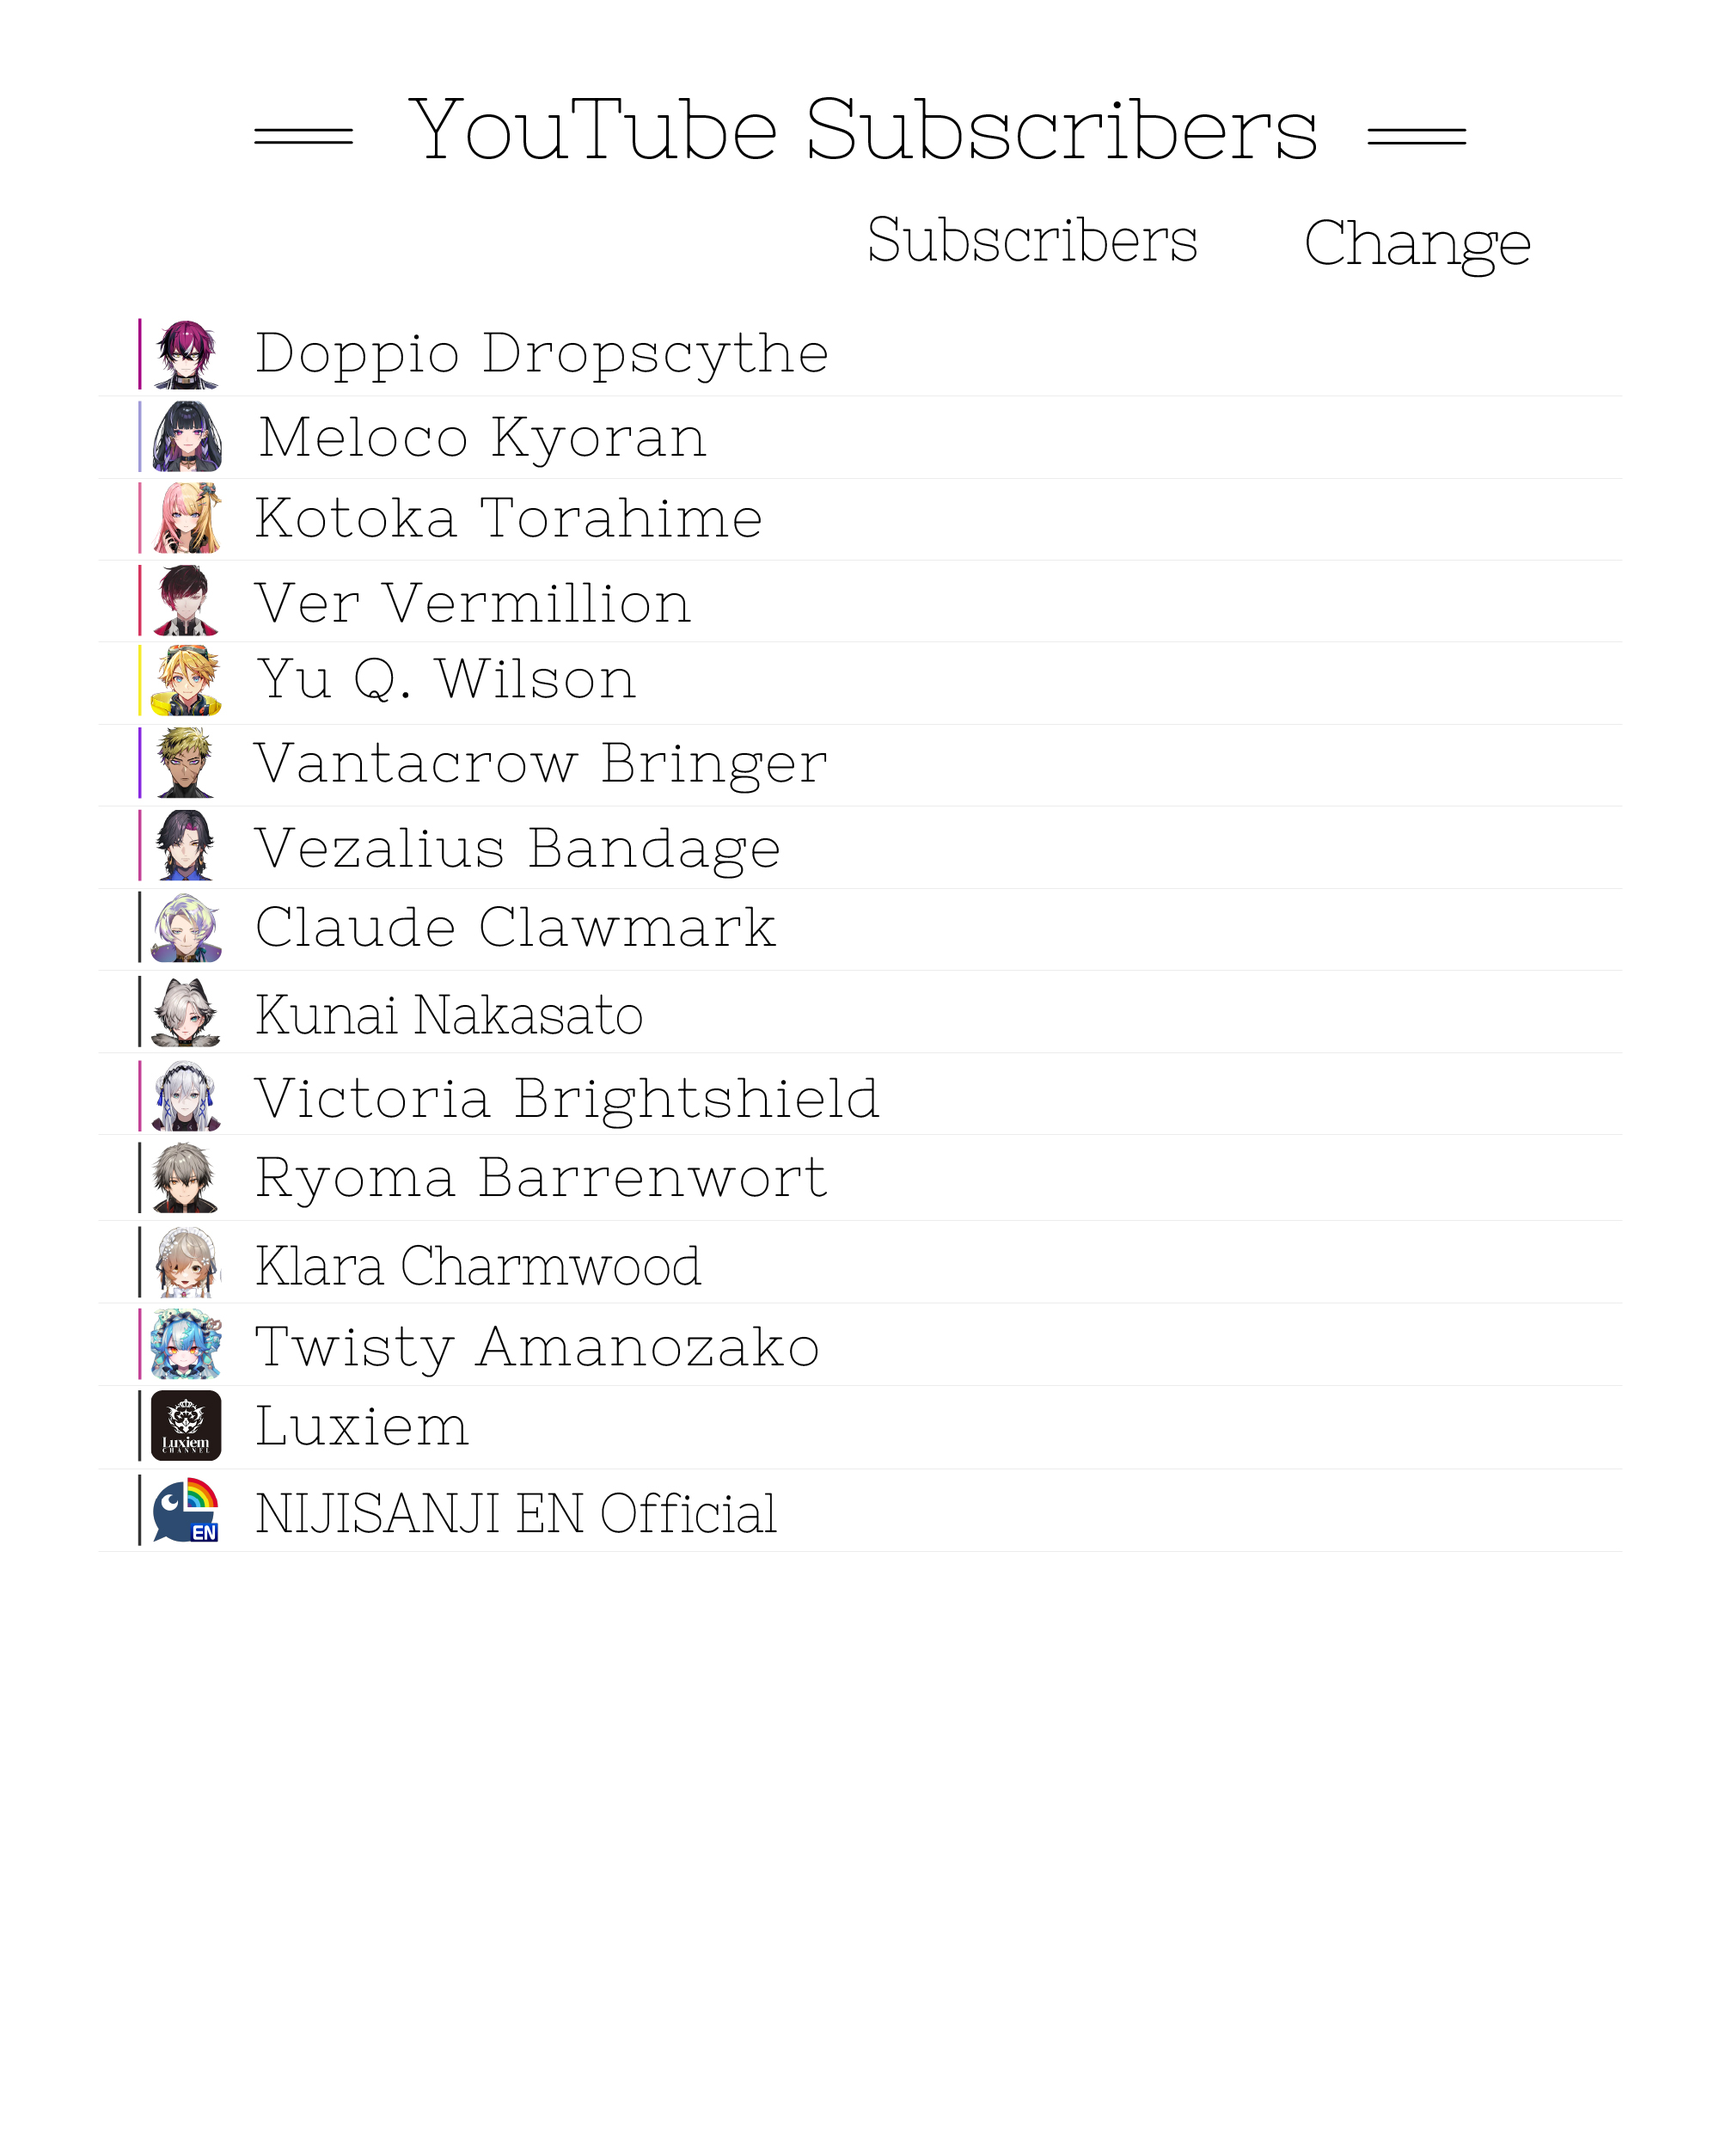
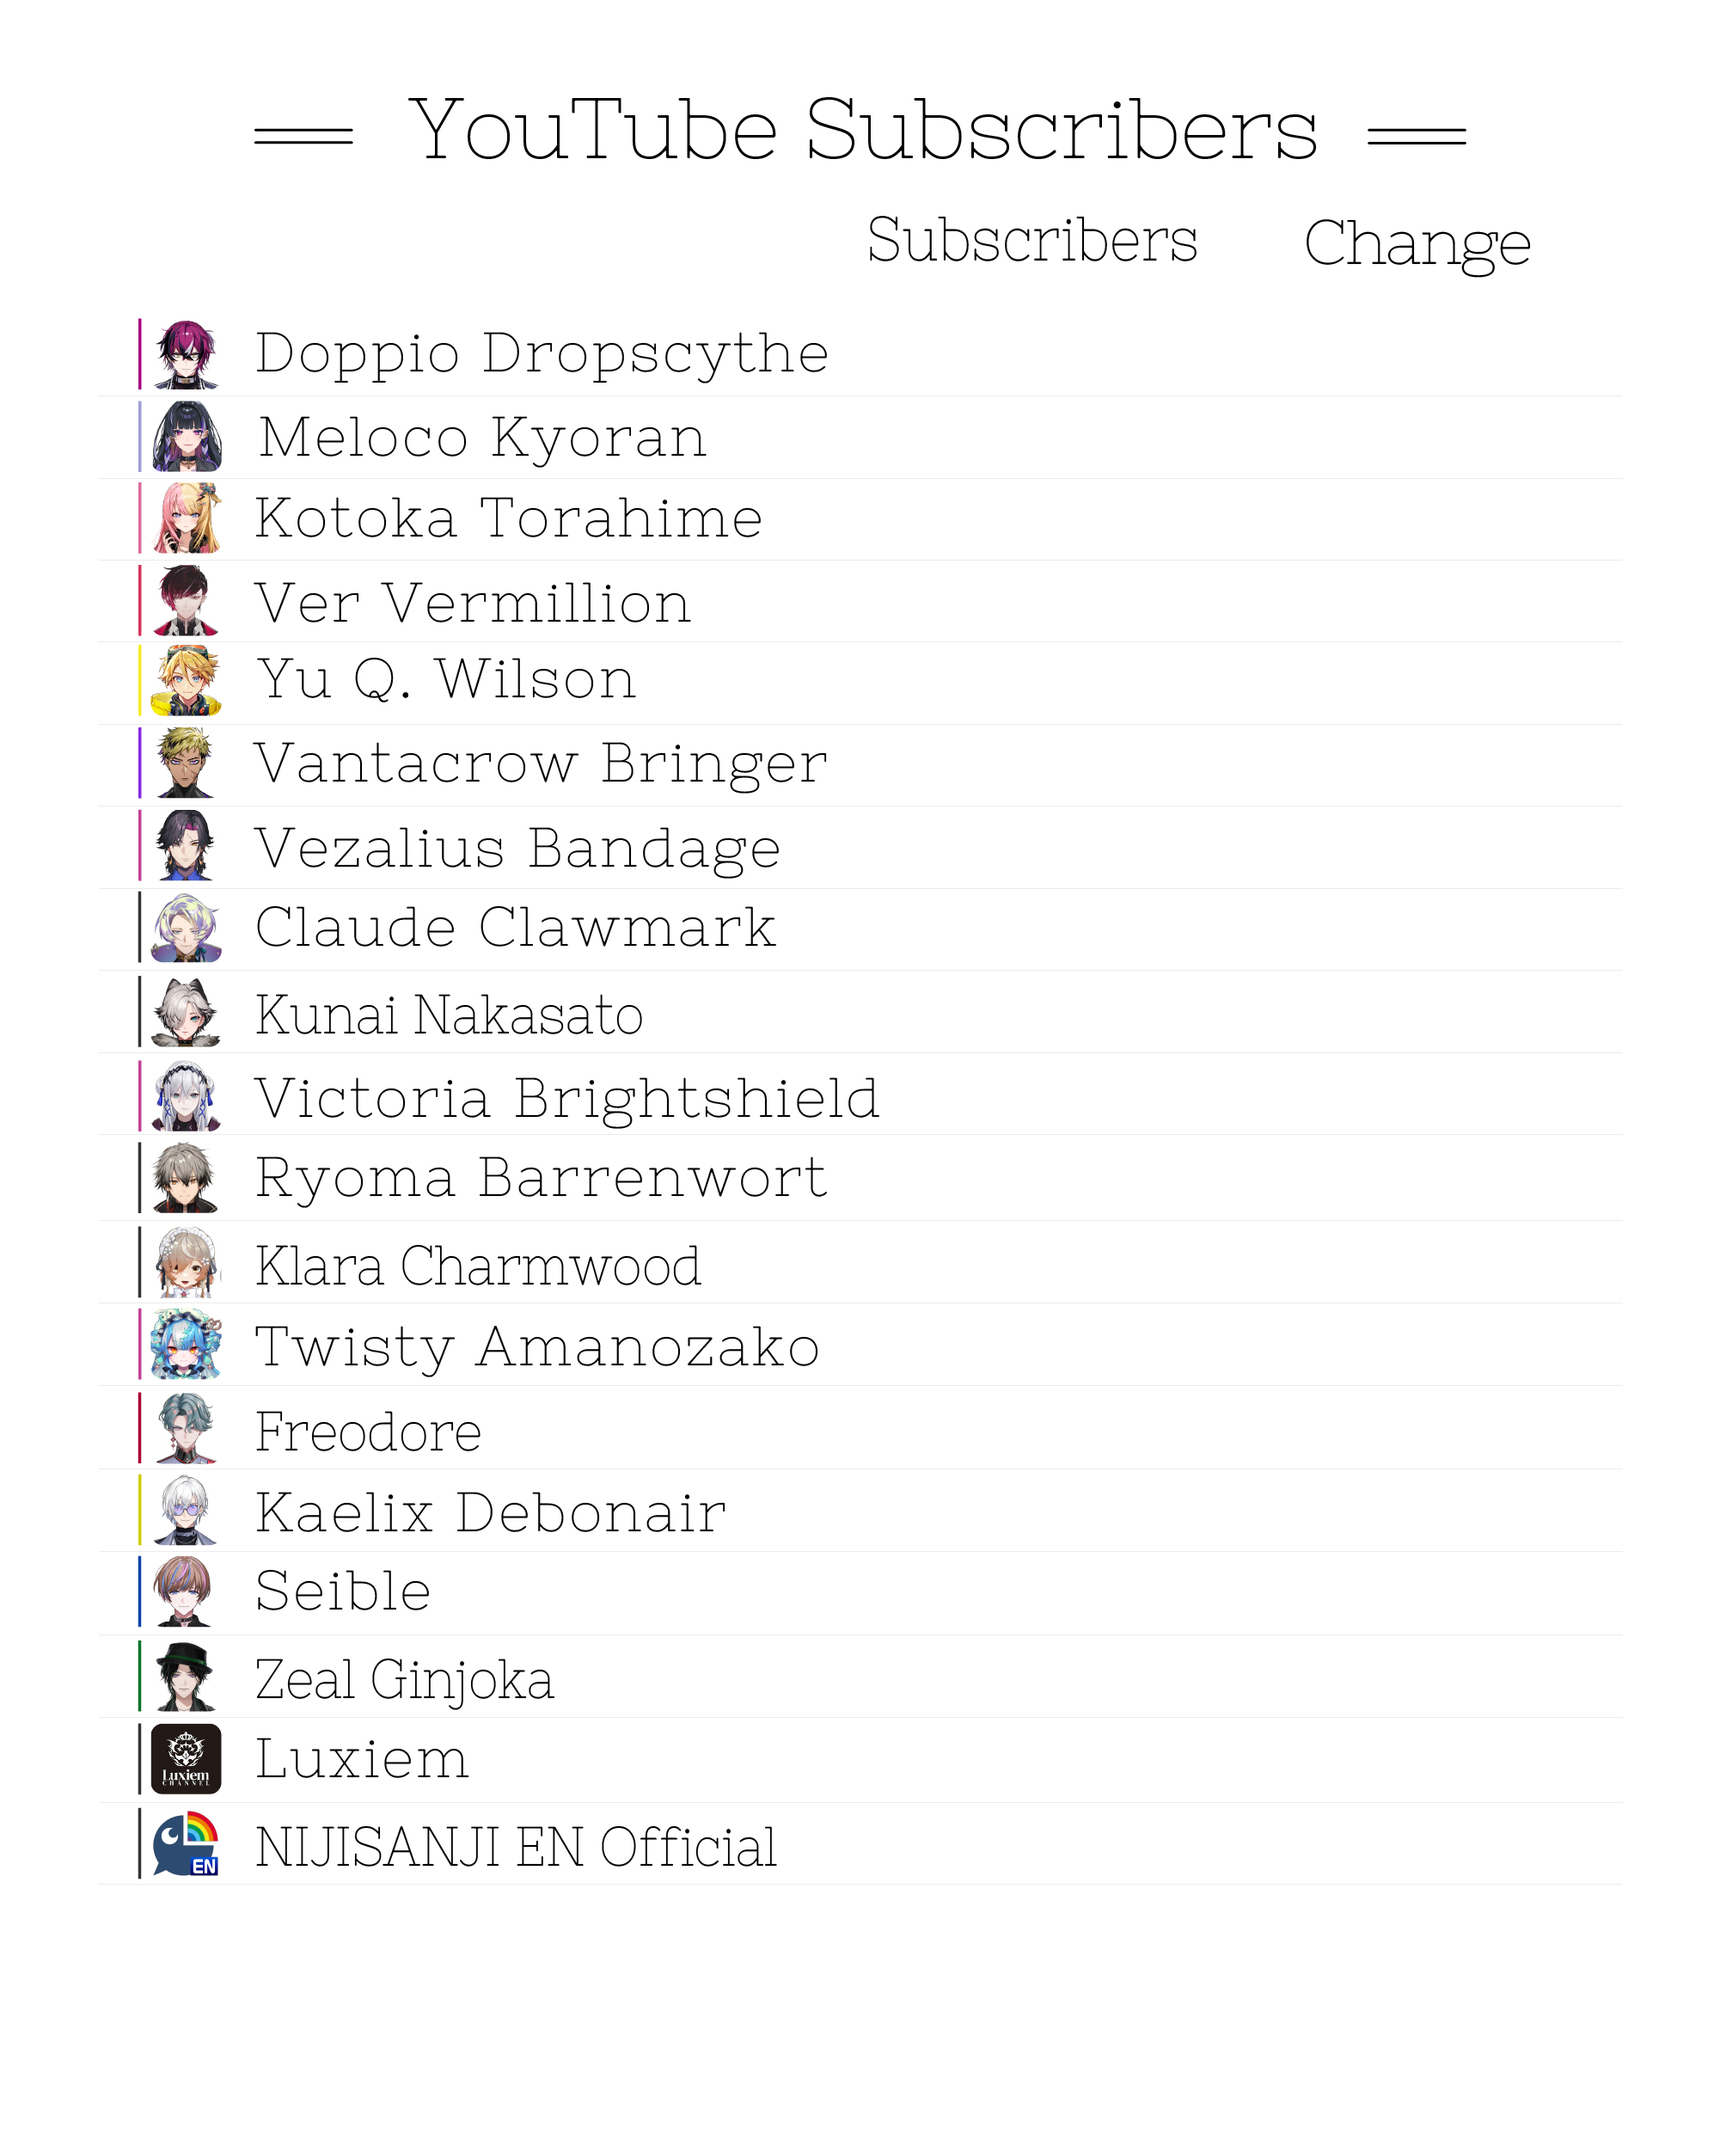
BYTHEBEAT追加

diff --git a/dics.py b/dics.py
@@ -35,6 +35,10 @@ members = ['Elira Pendora',
            'Ryoma Barrenwort',
            'Klara Charmwood',
            'Twisty Amanozako',
+           'Freodore',
+           'Kaelix Debonair',
+           'Seible',
+           'Zeal Ginjoka',
            'Luxiem',
            'NIJISANJI EN Official']
 
@@ -84,6 +88,10 @@ yt_id_dic = {'Elira Pendora':'UCIeSUTOTkF9Hs7q3SGcO-Ow',
              'Ryoma Barrenwort':'UCIzZDiilcPv0wim_MbuizFA',
              'Klara Charmwood':'UCQYwIUCLqFoin7lHKmePjJw',
              'Twisty Amanozako':'UCUI1qpjJSEbgzdlwmpdVmMw',
+             'Freodore':'UCr40BzcLiGruKe7M5gXR9zQ',
+             'Kaelix Debonair':'UCEFOogmvTTcCaO8Qe0I8-tg',
+             'Seible':'UCCugV2RWXqJMjVVQl_Yh4TQ',
+             'Zeal Ginjoka':'UClMYGvekJOb51eBOCK-d4Dw',
              'NIJISANJI EN Official':'UC-JSeFfovhNsEhftt1WHMvg',
              }
 
